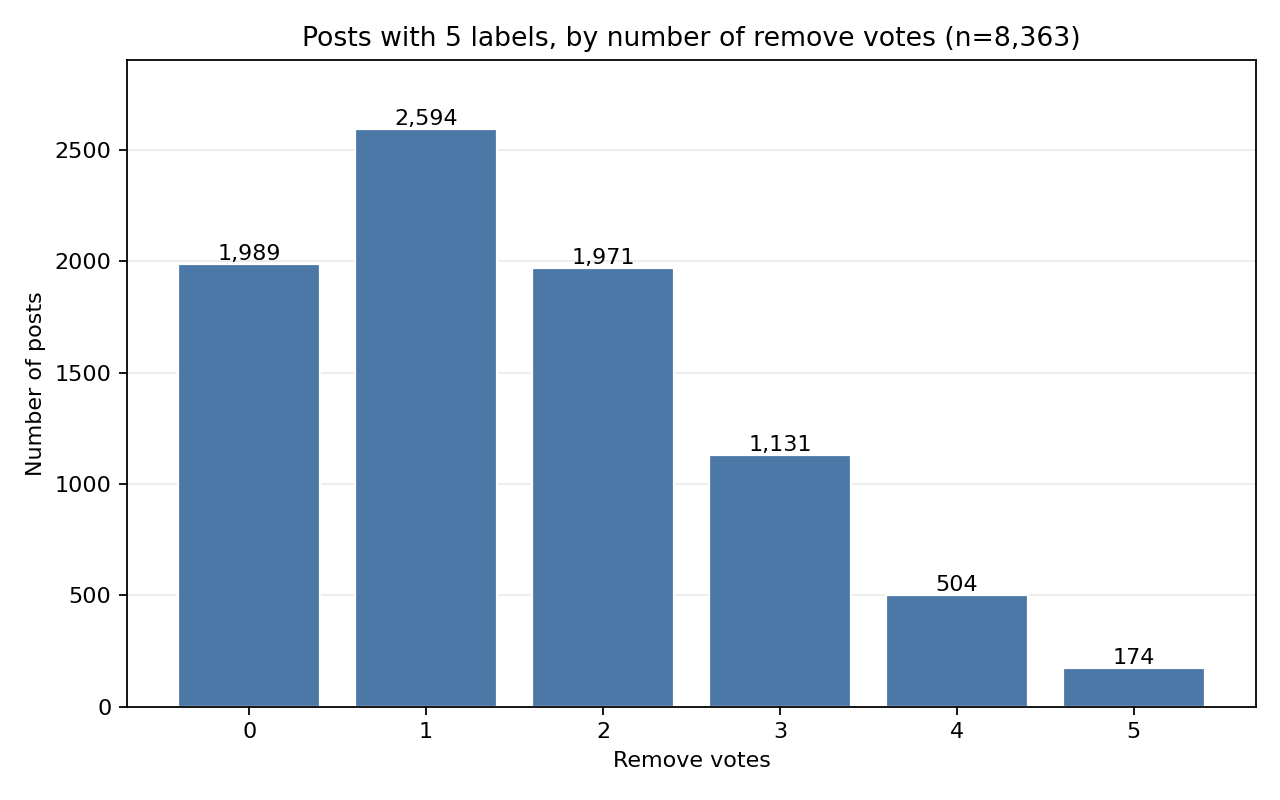
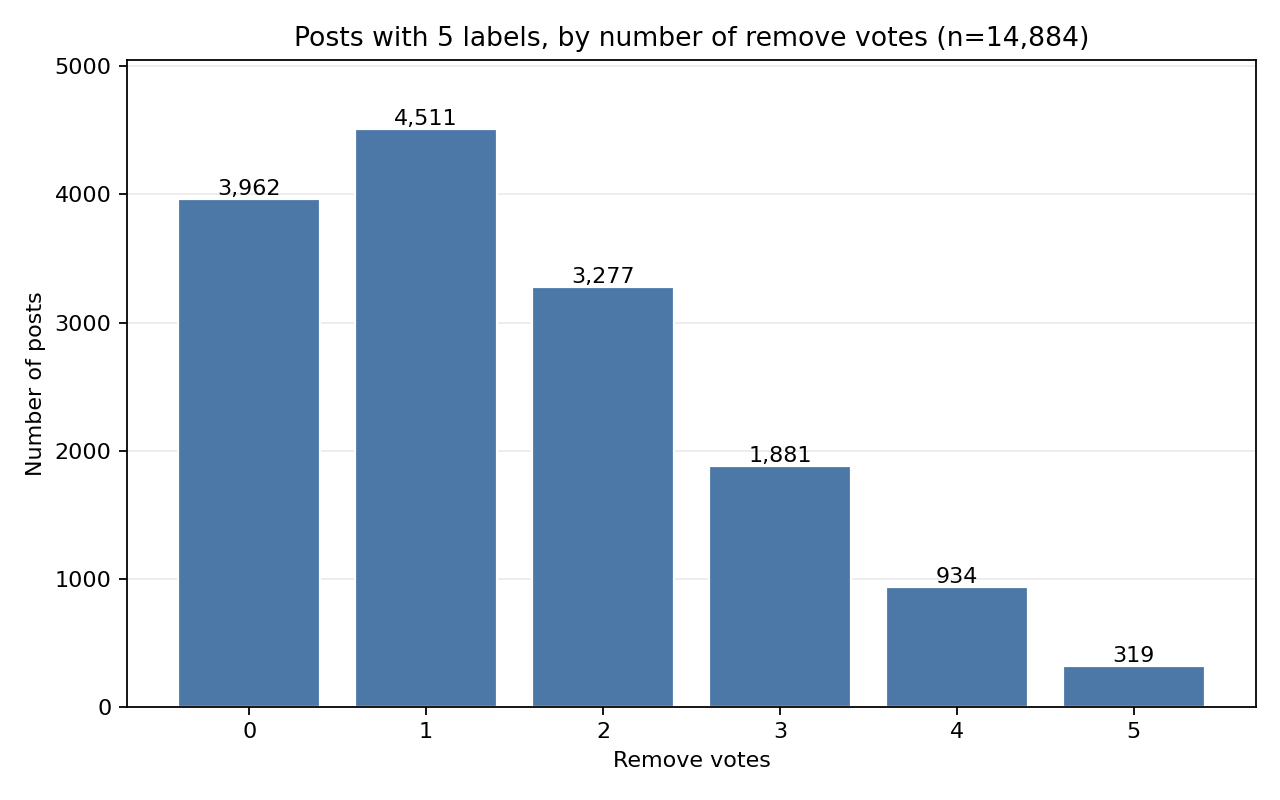
Recalculate keep and remove stats on the joint Part 2 and Part 3 dataset.
The rates, four-cell table, and five-label histogram now use the combined
June and September linked-fate collection.

diff --git a/experiments/phase_2_part_3_keep_remove_descriptive_stats_2026_09_24/votes.py b/experiments/phase_2_part_3_keep_remove_descriptive_stats_2026_09_24/votes.py
@@ -10,7 +10,7 @@ from __future__ import annotations
 import pandas as pd
 
 from shared.data.dataloader import load_dataset
-from shared.data.registry import STUDY_PHASE_2_PART_3_RESULTS_FULL
+from shared.data.registry import STUDY_PHASE_2_PART_2_AND_3_RESULTS_FULL
 
 _KEEP_REMOVE = frozenset({"keep", "remove"})
 _REQUIRED_TRIAL_COLUMNS = frozenset(
@@ -65,14 +65,14 @@ def _require_columns(raw: pd.DataFrame, columns: frozenset[str]) -> None:
 
 
 def load_results_full() -> pd.DataFrame:
-    """Load Phase 2 Part 3 results full from the dataset registry.
+    """Load the combined Phase 2 Part 2 and Part 3 results from the registry.
 
     Returns
     -------
     pandas.DataFrame
-        Raw results-full frame for Phase 2 Part 3.
+        Raw results-full frame for the joint linked-fate collection.
     """
-    return load_dataset(STUDY_PHASE_2_PART_3_RESULTS_FULL, low_memory=False)
+    return load_dataset(STUDY_PHASE_2_PART_2_AND_3_RESULTS_FULL, low_memory=False)
 
 
 def filter_linked_fate_trials(raw: pd.DataFrame) -> pd.DataFrame:

diff --git a/experiments/phase_2_part_3_keep_remove_descriptive_stats_2026_09_24/platform_rates.py b/experiments/phase_2_part_3_keep_remove_descriptive_stats_2026_09_24/platform_rates.py
@@ -10,7 +10,7 @@ from __future__ import annotations
 import pandas as pd
 
 from shared.data.dataloader import load_dataset
-from shared.data.registry import STUDY_PHASE_2_PART_3_STIMULI
+from shared.data.registry import STUDY_PHASE_2_PART_2_AND_3_STIMULI
 
 PLATFORM_BY_PREFIX: dict[str, str] = {
     "bluesky": "Bluesky",
@@ -274,11 +274,11 @@ def column_proportions(counts: pd.DataFrame) -> pd.DataFrame:
 
 
 def load_stimuli() -> pd.DataFrame:
-    """Load Phase 2 Part 3 stimuli from the dataset registry.
+    """Load the combined Phase 2 Part 2 and Part 3 stimuli from the registry.
 
     Returns
     -------
     pandas.DataFrame
         Stimuli frame for toxicity lookup.
     """
-    return load_dataset(STUDY_PHASE_2_PART_3_STIMULI, low_memory=False)
+    return load_dataset(STUDY_PHASE_2_PART_2_AND_3_STIMULI, low_memory=False)

diff --git a/experiments/phase_2_part_3_keep_remove_descriptive_stats_2026_09_24/run.py b/experiments/phase_2_part_3_keep_remove_descriptive_stats_2026_09_24/run.py
@@ -1,4 +1,4 @@
-"""Run Part 3 keep/remove descriptive stats and write RESULTS.md.
+"""Run joint Part 2 and Part 3 keep/remove descriptive stats and write RESULTS.md.
 
 Run from repo root::
 

diff --git a/experiments/phase_2_part_3_keep_remove_descriptive_stats_2026_09_24/RESULTS.md b/experiments/phase_2_part_3_keep_remove_descriptive_stats_2026_09_24/RESULTS.md
@@ -2,40 +2,40 @@
 
 | decision | Bluesky | Reddit | Twitter |
 |---|---:|---:|---:|
-| keep | 2750 | 8613 | 2266 |
-| remove | 928 | 3677 | 628 |
+| keep | 3123 | 9322 | 2751 |
+| remove | 751 | 3582 | 471 |
 
 ## Platform proportions
 
 | decision | Bluesky | Reddit | Twitter |
 |---|---:|---:|---:|
-| keep | 0.7477 | 0.7008 | 0.7830 |
-| remove | 0.2523 | 0.2992 | 0.2170 |
+| keep | 0.8061 | 0.7224 | 0.8538 |
+| remove | 0.1939 | 0.2776 | 0.1462 |
 
 ## Platform by toxicity proportions
 
 | decision | Bluesky low toxicity | Bluesky medium toxicity | Bluesky high toxicity | Reddit low toxicity | Reddit medium toxicity | Reddit high toxicity | Twitter low toxicity | Twitter medium toxicity | Twitter high toxicity |
 |---|---:|---:|---:|---:|---:|---:|---:|---:|---:|
-| keep | 0.9202 | 0.7461 | 0.4626 | 0.9191 | 0.7802 | 0.4429 | 0.8878 | 0.7233 | 0.4085 |
-| remove | 0.0798 | 0.2539 | 0.5374 | 0.0809 | 0.2198 | 0.5571 | 0.1122 | 0.2767 | 0.5915 |
+| keep | 0.9677 | 0.8138 | 0.4843 | 0.9332 | 0.8140 | 0.4661 | 0.9629 | 0.8021 | 0.4359 |
+| remove | 0.0323 | 0.1862 | 0.5157 | 0.0668 | 0.1860 | 0.5339 | 0.0371 | 0.1979 | 0.5641 |
 
 ## Four-cell counts
 
 | cell | count | share |
 |---|---:|---:|
-| unanimous_keep | 4497 | 0.3015 |
-| majority_keep | 7256 | 0.4865 |
-| majority_remove | 2670 | 0.1790 |
-| unanimous_remove | 491 | 0.0329 |
+| unanimous_keep | 5280 | 0.2753 |
+| majority_keep | 9914 | 0.5170 |
+| majority_remove | 3547 | 0.1850 |
+| unanimous_remove | 435 | 0.0227 |
 
 ## Vote funnel
 
 | metric | count |
 |---|---:|
-| posts_after_vote_clean | 18862 |
-| posts_dropped_lt_3_raters | 2979 |
-| posts_dropped_ties | 969 |
-| posts_remaining | 14914 |
+| posts_after_vote_clean | 20000 |
+| posts_dropped_lt_3_raters | 4 |
+| posts_dropped_ties | 820 |
+| posts_remaining | 19176 |
 
 ## Remove votes on posts with 5 labels
 
@@ -43,11 +43,11 @@ Each post in this table has exactly five cleaned labels. The count is how many o
 
 | remove votes | posts |
 |---:|---:|
-| 0 | 1989 |
-| 1 | 2594 |
-| 2 | 1971 |
-| 3 | 1131 |
-| 4 | 504 |
-| 5 | 174 |
+| 0 | 3962 |
+| 1 | 4511 |
+| 2 | 3277 |
+| 3 | 1881 |
+| 4 | 934 |
+| 5 | 319 |
 
 ![Posts with 5 labels by number of remove votes](outputs/five_label_remove_histogram.png)

diff --git a/CHANGELOG.md b/CHANGELOG.md
@@ -2,13 +2,12 @@
 
 ## 2026-09-25
 
-1. The Part 3 keep and remove experiment now shows how many five-label posts have 0 through 5 remove votes. Of 8,363 posts with five cleaned labels, 2,594 have one remove vote and 174 have five. [PR #306](https://github.com/METResearchGroup/mirrorView-task/pull/306)
+1. Keep and remove rates now use the combined Phase 2 Part 2 and Part 3 dataset. Modal keep rates are 80.61% on Bluesky, 72.24% on Reddit, and 85.38% on Twitter. Of 14,884 posts with five cleaned labels, 4,511 have one remove vote and 319 have five. [PR #306](https://github.com/METResearchGroup/mirrorView-task/pull/306)
 
 ## 2026-09-24
 
 1. Callers can load the June and September linked-fate collections from `s3://mirrorview-experimental-artifacts/shared/data/raw/study_phase_2_part_2_and_3/`. The combined session table is 168,871 rows and 5,051 Prolific accounts. The combined stimulus catalog is 20,000 unique posts. [PR #311](https://github.com/METResearchGroup/mirrorView-task/pull/311)
 2. The shared study loader reads every registered CSV from `mirrorview-experimental-artifacts`. The object key is the repo-relative path, such as `shared/data/raw/study_phase_2_part_2/results/full.csv`. Those CSVs are no longer in git. [PR #311](https://github.com/METResearchGroup/mirrorView-task/pull/311)
-3. Phase 2 Part 3 now has keep and remove rates by platform and unanimous versus majority cells. After vote cleaning, modal keep rates are 74.77% on Bluesky, 70.08% on Reddit, and 78.30% on Twitter, and 30.15% of the 14,914 posts with at least three raters and no exact tie are unanimous keep while 3.29% are unanimous remove. [PR #306](https://github.com/METResearchGroup/mirrorView-task/pull/306)
 
 ## 2026-09-22
 

diff --git a/experiments/phase_2_part_3_keep_remove_descriptive_stats_2026_09_24/SETUP.md b/experiments/phase_2_part_3_keep_remove_descriptive_stats_2026_09_24/SETUP.md
@@ -2,7 +2,7 @@
 
 ## Required datasets
 
-Load `STUDY_PHASE_2_PART_3_RESULTS_FULL` and `STUDY_PHASE_2_PART_3_STIMULI` only through `shared.data.dataloader.load_dataset`.
+Load `STUDY_PHASE_2_PART_2_AND_3_RESULTS_FULL` and `STUDY_PHASE_2_PART_2_AND_3_STIMULI` only through `shared.data.dataloader.load_dataset`. Those tables are the June Part 2 collection and the September Part 3 collection as one results file and one stimulus catalog. Votes on the same `post_id` from both collections count as one post.
 
 ## Filtering
 

diff --git a/experiments/phase_2_part_3_keep_remove_descriptive_stats_2026_09_24/README.md b/experiments/phase_2_part_3_keep_remove_descriptive_stats_2026_09_24/README.md
@@ -1,3 +1,3 @@
-# Phase 2 Part 3 keep/remove descriptive stats
+# Keep and remove rates for the combined Phase 2 Part 2 and Part 3 dataset
 
 See [SETUP.md](SETUP.md) for data requirements and [RESULTS.md](RESULTS.md) for output tables.
